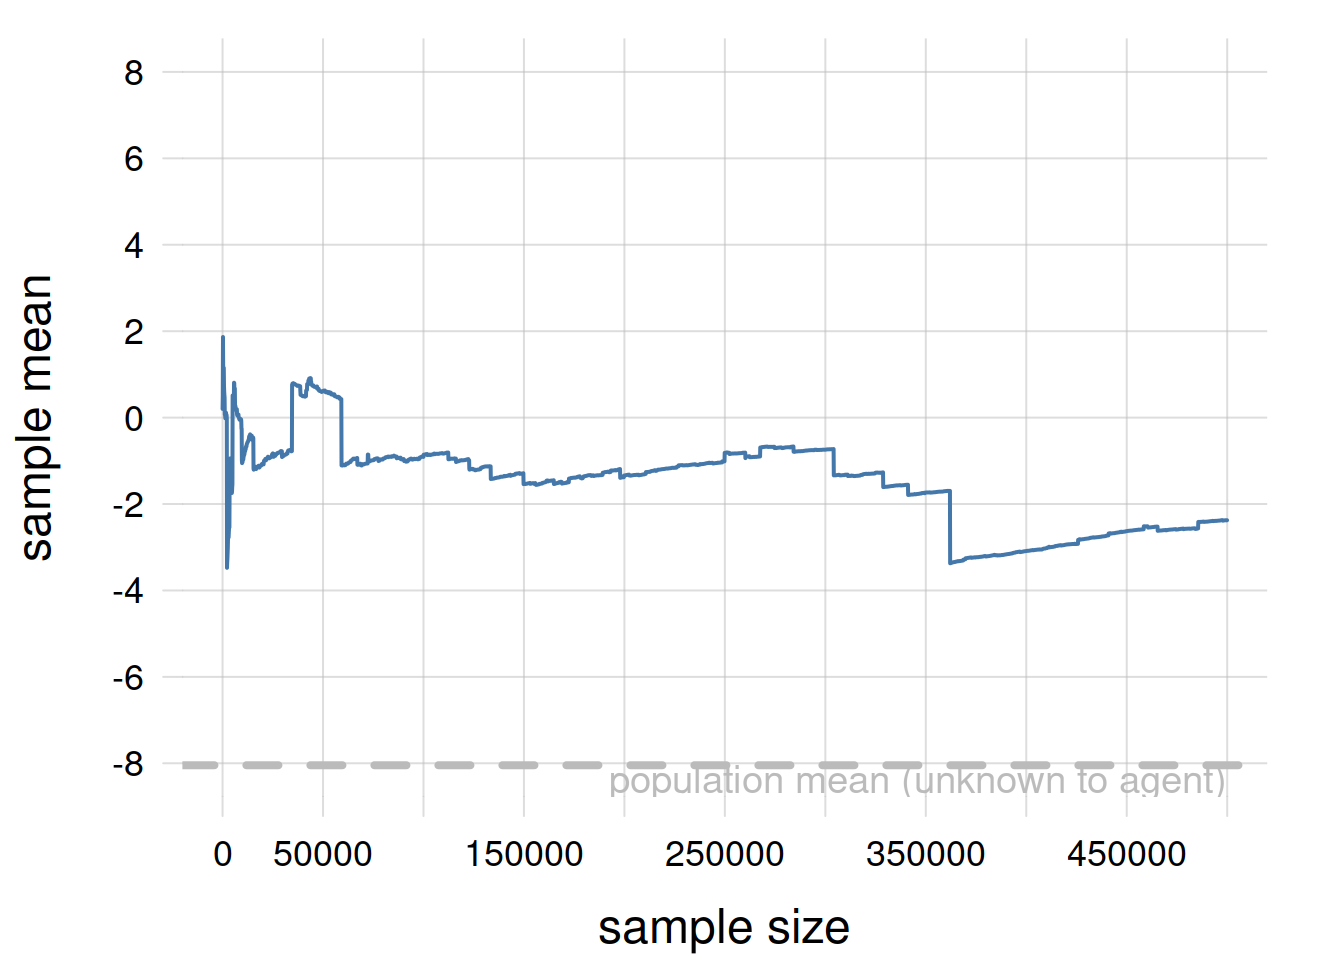
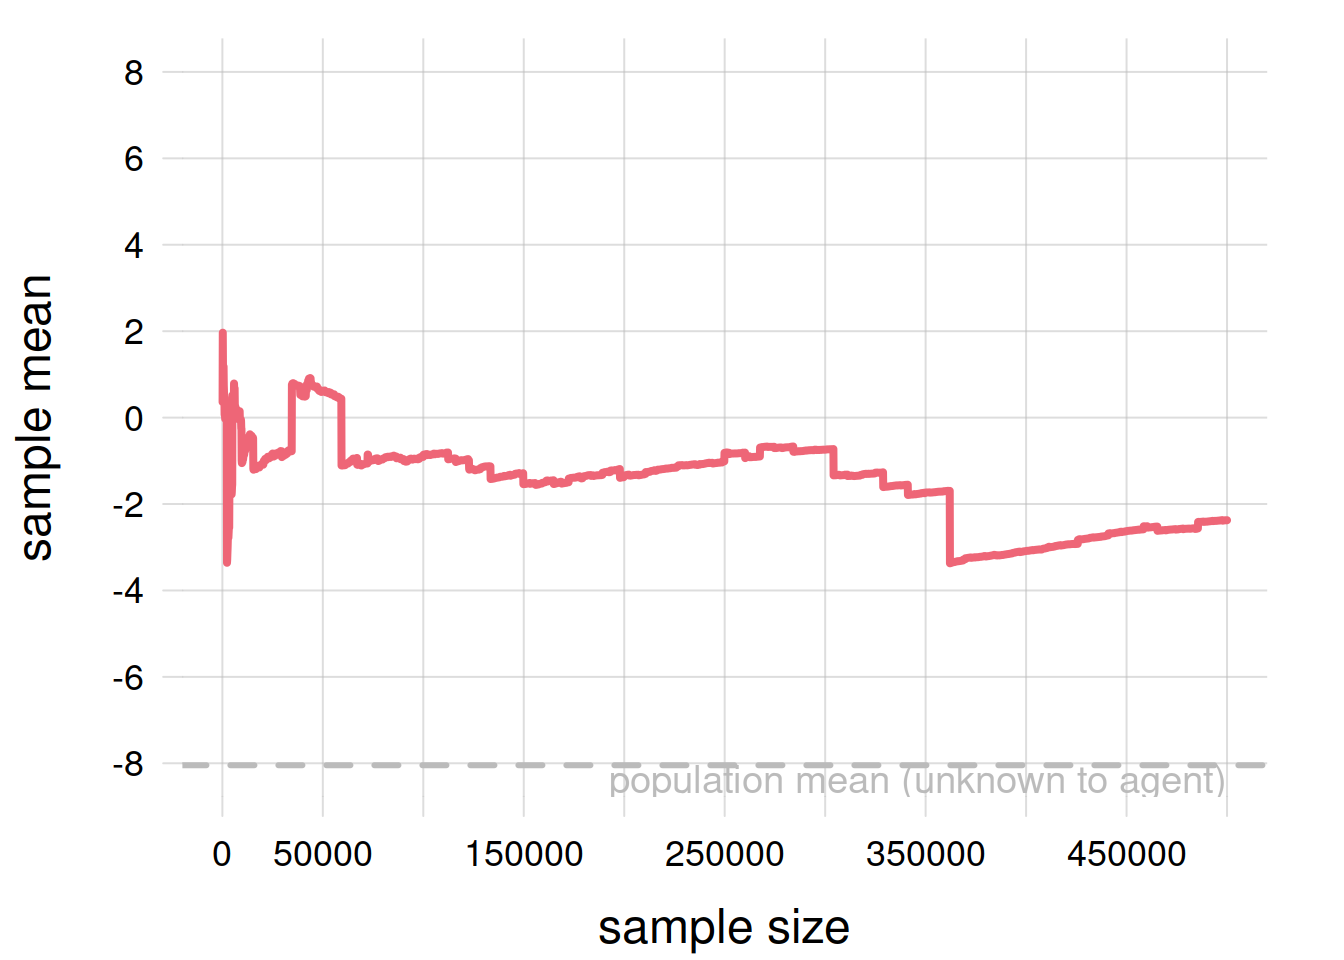
update

diff --git a/docs/samples.html b/docs/samples.html
@@ -901,7 +901,7 @@ pre > code.sourceCode > span > a:first-child::before { text-decoration: underlin
 </section>
 <section id="quirks-of-samples-for-mean-and-standard-deviation" class="level3">
 <h3 class="anchored" data-anchor-id="quirks-of-samples-for-mean-and-standard-deviation">Quirks of samples for mean and standard deviation</h3>
-<p>For some populations, the mean and standard deviation calculated in a sample can be wildly different from those of the full population – even when the sample comprises half of the full population! Here is a demonstration in <code>R</code>. Try it out in your favourite programming language.</p>
+<p>For some populations, the mean and standard deviation calculated in a sample can be wildly different from those of the full population – even when the sample comprises half of the full population! This does not happen with the median and quartiles. Here is a demonstration in <code>R</code>. Try it out in your favourite programming language.</p>
 <div class="callout callout-style-default callout-caution no-icon callout-titled">
 <div class="callout-header d-flex align-content-center">
 <div class="callout-icon-container">
@@ -912,9 +912,9 @@ pre > code.sourceCode > span > a:first-child::before { text-decoration: underlin
 </div>
 </div>
 <div class="callout-body-container callout-body">
-<p>We imagine to have a population of 1 000 000 units. These units have continuous interval variates <span style="display:inline-block;"><span class="math inline">\(X\)</span></span> and <span style="display:inline-block;"><span class="math inline">\(Y\)</span>,</span> each with an approximately standard Gaussian frequency distribution. These variates are not actual part of the population definition, however. Rather, an agent only has access to, or maybe it’s only interested in, the ratio of these two variates <span style="display:inline-block;"><span class="math inline">\(R \coloneqq X/Y\)</span>.</span></p>
-<p>The agent is in particular interested in the <em>mean</em> of the variate <span style="display:inline-block;"><span class="math inline">\(R\)</span></span> in the full population, but has only access to the values of <span style="display:inline-block;"><span class="math inline">\(R\)</span></span> in a sample. How does the mean calculated from a sample of increasing size compare with the actual mean of the full population?</p>
-<p>First let’s create the values of the variates <span style="display:inline-block;"><span class="math inline">\(X\)</span></span> and <span style="display:inline-block;"><span class="math inline">\(Y\)</span>,</span> and construct <span style="display:inline-block;"><span class="math inline">\(R\)</span></span> from them:</p>
+<p>We imagine to have a population of 1 000 000 units. These units have continuous interval variates <span style="display:inline-block;"><span class="math inline">\(X\)</span></span> and <span style="display:inline-block;"><span class="math inline">\(Y\)</span>,</span> each with an approximately standard Gaussian frequency distribution. These variates are not actual part of the population definition, however. Rather, an agent only has access to, or maybe it’s only interested in, the ratio of these two variates <span style="display:inline-block;"><span class="math inline">\(T \coloneqq X/Y\)</span>.</span></p>
+<p>The agent is in particular interested in the <em>mean</em> of the variate <span style="display:inline-block;"><span class="math inline">\(T\)</span></span> in the full population, but has only access to the values of <span style="display:inline-block;"><span class="math inline">\(T\)</span></span> in a sample. How does the mean calculated from a sample of increasing size compare with the actual mean of the full population? For comparison, we also study the <em>median</em> of the full population and of the samples.</p>
+<p>First let’s create the values of the variates <span style="display:inline-block;"><span class="math inline">\(X\)</span></span> and <span style="display:inline-block;"><span class="math inline">\(Y\)</span>,</span> and construct <span style="display:inline-block;"><span class="math inline">\(T\)</span></span> from them:</p>
 <div class="cell">
 <div class="sourceCode cell-code" id="cb1"><pre class="sourceCode r code-with-copy"><code class="sourceCode r"><span id="cb1-1"><a href="#cb1-1" aria-hidden="true" tabindex="-1"></a><span class="do">## Load custom plot functions</span></span>
 <span id="cb1-2"><a href="#cb1-2" aria-hidden="true" tabindex="-1"></a><span class="fu">source</span>(<span class="st">'code/tplotfunctions.R'</span>)</span>
@@ -925,42 +925,66 @@ pre > code.sourceCode > span > a:first-child::before { text-decoration: underlin
 <span id="cb1-7"><a href="#cb1-7" aria-hidden="true" tabindex="-1"></a>X <span class="ot">&lt;-</span> <span class="fu">rnorm</span>(N) <span class="co"># variate invisible to agent</span></span>
 <span id="cb1-8"><a href="#cb1-8" aria-hidden="true" tabindex="-1"></a>Y <span class="ot">&lt;-</span> <span class="fu">rnorm</span>(N) <span class="co"># variate invisible to agent</span></span>
 <span id="cb1-9"><a href="#cb1-9" aria-hidden="true" tabindex="-1"></a></span>
-<span id="cb1-10"><a href="#cb1-10" aria-hidden="true" tabindex="-1"></a>R <span class="ot">&lt;-</span> X<span class="sc">/</span>Y <span class="co"># variate considered by agent</span></span>
+<span id="cb1-10"><a href="#cb1-10" aria-hidden="true" tabindex="-1"></a>T <span class="ot">&lt;-</span> X<span class="sc">/</span>Y <span class="co"># variate considered by agent</span></span>
 <span id="cb1-11"><a href="#cb1-11" aria-hidden="true" tabindex="-1"></a></span>
-<span id="cb1-12"><a href="#cb1-12" aria-hidden="true" tabindex="-1"></a><span class="do">## mean of R in the full population</span></span>
-<span id="cb1-13"><a href="#cb1-13" aria-hidden="true" tabindex="-1"></a>popmean <span class="ot">&lt;-</span> <span class="fu">mean</span>(R)</span>
+<span id="cb1-12"><a href="#cb1-12" aria-hidden="true" tabindex="-1"></a><span class="do">## mean and median of T in the full population</span></span>
+<span id="cb1-13"><a href="#cb1-13" aria-hidden="true" tabindex="-1"></a>popmean <span class="ot">&lt;-</span> <span class="fu">mean</span>(T)</span>
 <span id="cb1-14"><a href="#cb1-14" aria-hidden="true" tabindex="-1"></a><span class="fu">cat</span>(<span class="st">'</span><span class="sc">\n</span><span class="st">The full-population mean is'</span>, popmean, <span class="st">'(unknown to the agent)</span><span class="sc">\n</span><span class="st">'</span>)</span></code><button title="Copy to Clipboard" class="code-copy-button"><i class="bi"></i></button></pre></div>
 <div class="cell-output cell-output-stdout">
 <pre><code>
 The full-population mean is -8.04481 (unknown to the agent)</code></pre>
 </div>
+<div class="sourceCode cell-code" id="cb3"><pre class="sourceCode r code-with-copy"><code class="sourceCode r"><span id="cb3-1"><a href="#cb3-1" aria-hidden="true" tabindex="-1"></a>popmedian <span class="ot">&lt;-</span> <span class="fu">median</span>(T)</span>
+<span id="cb3-2"><a href="#cb3-2" aria-hidden="true" tabindex="-1"></a><span class="fu">cat</span>(<span class="st">'</span><span class="sc">\n</span><span class="st">The full-population median is'</span>, popmedian, <span class="st">'(unknown to the agent)</span><span class="sc">\n</span><span class="st">'</span>)</span></code><button title="Copy to Clipboard" class="code-copy-button"><i class="bi"></i></button></pre></div>
+<div class="cell-output cell-output-stdout">
+<pre><code>
+The full-population median is 0.00188701 (unknown to the agent)</code></pre>
 </div>
-<p>Now we imagine that the agent accumulates samples from the population, starting from 10, increasing by 100 units, until half of the population has been sampled. At each sample increase the agent calculates the sample mean. We plot how the sample mean changes with the sample size. We also plot indicate the full-population mean, which the agent doesn’t know and is trying to guess:</p>
+</div>
+<p>Now we imagine that the agent accumulates samples from the population, starting from 100, increasing by 100 units, until half of the population has been sampled. At each sample increase the agent calculates the sample mean. We plot how the sample mean changes with the sample size. We also plot indicate the full-population mean, which the agent doesn’t know and is trying to guess:</p>
 <div class="cell">
-<div class="sourceCode cell-code" id="cb3"><pre class="sourceCode r code-with-copy"><code class="sourceCode r"><span id="cb3-1"><a href="#cb3-1" aria-hidden="true" tabindex="-1"></a><span class="do">## sizes of successive samples</span></span>
-<span id="cb3-2"><a href="#cb3-2" aria-hidden="true" tabindex="-1"></a>samplesizes <span class="ot">&lt;-</span> <span class="fu">seq</span>(<span class="dv">10</span>, N<span class="sc">/</span><span class="dv">2</span>, <span class="at">by=</span><span class="dv">100</span>)</span>
-<span id="cb3-3"><a href="#cb3-3" aria-hidden="true" tabindex="-1"></a></span>
-<span id="cb3-4"><a href="#cb3-4" aria-hidden="true" tabindex="-1"></a><span class="do">## empty vector to contain the means of the increasing samples</span></span>
-<span id="cb3-5"><a href="#cb3-5" aria-hidden="true" tabindex="-1"></a>samplemeans <span class="ot">&lt;-</span> <span class="fu">numeric</span>(<span class="fu">length</span>(samplesizes))</span>
-<span id="cb3-6"><a href="#cb3-6" aria-hidden="true" tabindex="-1"></a></span>
-<span id="cb3-7"><a href="#cb3-7" aria-hidden="true" tabindex="-1"></a><span class="do">## loop through the increasing samples, calculate mean for each</span></span>
-<span id="cb3-8"><a href="#cb3-8" aria-hidden="true" tabindex="-1"></a><span class="cf">for</span>(sample <span class="cf">in</span> <span class="dv">1</span><span class="sc">:</span><span class="fu">length</span>(samplesizes)){</span>
-<span id="cb3-9"><a href="#cb3-9" aria-hidden="true" tabindex="-1"></a>    samplemeans[sample] <span class="ot">&lt;-</span> <span class="fu">mean</span>(R[<span class="dv">1</span><span class="sc">:</span>samplesizes[sample]])</span>
-<span id="cb3-10"><a href="#cb3-10" aria-hidden="true" tabindex="-1"></a>}</span>
-<span id="cb3-11"><a href="#cb3-11" aria-hidden="true" tabindex="-1"></a></span>
-<span id="cb3-12"><a href="#cb3-12" aria-hidden="true" tabindex="-1"></a><span class="do">## plot how sample means change with sample size, and the actual population mean</span></span>
-<span id="cb3-13"><a href="#cb3-13" aria-hidden="true" tabindex="-1"></a><span class="fu">tplot</span>(<span class="at">x=</span>samplesizes, <span class="at">y=</span>samplemeans,</span>
-<span id="cb3-14"><a href="#cb3-14" aria-hidden="true" tabindex="-1"></a>      <span class="at">xlab=</span><span class="st">'sample size'</span>, <span class="at">ylab=</span><span class="st">'sample mean'</span>,</span>
-<span id="cb3-15"><a href="#cb3-15" aria-hidden="true" tabindex="-1"></a>      <span class="at">ylim=</span><span class="fu">c</span>(<span class="sc">-</span><span class="dv">1</span>,<span class="dv">1</span>)<span class="sc">*</span><span class="fl">1.01</span><span class="sc">*</span><span class="fu">max</span>(<span class="fu">abs</span>(popmean),<span class="fu">abs</span>(samplemeans)))</span>
-<span id="cb3-16"><a href="#cb3-16" aria-hidden="true" tabindex="-1"></a><span class="fu">abline</span>(<span class="at">h=</span>popmean, <span class="at">lty=</span><span class="dv">2</span>, <span class="at">lwd=</span><span class="dv">4</span>, <span class="at">col=</span><span class="dv">7</span>)</span>
-<span id="cb3-17"><a href="#cb3-17" aria-hidden="true" tabindex="-1"></a><span class="fu">text</span>(<span class="at">y=</span>popmean, <span class="at">x=</span><span class="fu">max</span>(samplesizes), <span class="at">labels=</span><span class="st">'population mean (unknown to agent)'</span>, <span class="at">adj=</span><span class="fu">c</span>(<span class="dv">1</span>,<span class="dv">1</span>), <span class="at">col=</span><span class="dv">7</span>, <span class="at">cex=</span><span class="fl">1.2</span>)</span></code><button title="Copy to Clipboard" class="code-copy-button"><i class="bi"></i></button></pre></div>
+<div class="sourceCode cell-code" id="cb5"><pre class="sourceCode r code-with-copy"><code class="sourceCode r"><span id="cb5-1"><a href="#cb5-1" aria-hidden="true" tabindex="-1"></a><span class="do">## sizes of successive samples</span></span>
+<span id="cb5-2"><a href="#cb5-2" aria-hidden="true" tabindex="-1"></a>samplesizes <span class="ot">&lt;-</span> <span class="fu">seq</span>(<span class="dv">100</span>, N<span class="sc">/</span><span class="dv">2</span>, <span class="at">by=</span><span class="dv">100</span>)</span>
+<span id="cb5-3"><a href="#cb5-3" aria-hidden="true" tabindex="-1"></a></span>
+<span id="cb5-4"><a href="#cb5-4" aria-hidden="true" tabindex="-1"></a><span class="do">## empty vectors to contain the means and medians of the increasing samples</span></span>
+<span id="cb5-5"><a href="#cb5-5" aria-hidden="true" tabindex="-1"></a>samplemeans <span class="ot">&lt;-</span> <span class="fu">numeric</span>(<span class="fu">length</span>(samplesizes))</span>
+<span id="cb5-6"><a href="#cb5-6" aria-hidden="true" tabindex="-1"></a>samplemedians <span class="ot">&lt;-</span> <span class="fu">numeric</span>(<span class="fu">length</span>(samplesizes))</span>
+<span id="cb5-7"><a href="#cb5-7" aria-hidden="true" tabindex="-1"></a></span>
+<span id="cb5-8"><a href="#cb5-8" aria-hidden="true" tabindex="-1"></a><span class="do">## loop through the increasing samples, calculate mean for each</span></span>
+<span id="cb5-9"><a href="#cb5-9" aria-hidden="true" tabindex="-1"></a><span class="cf">for</span>(sample <span class="cf">in</span> <span class="dv">1</span><span class="sc">:</span><span class="fu">length</span>(samplesizes)){</span>
+<span id="cb5-10"><a href="#cb5-10" aria-hidden="true" tabindex="-1"></a>    samplemeans[sample] <span class="ot">&lt;-</span> <span class="fu">mean</span>(T[<span class="dv">1</span><span class="sc">:</span>samplesizes[sample]])</span>
+<span id="cb5-11"><a href="#cb5-11" aria-hidden="true" tabindex="-1"></a>    samplemedians[sample] <span class="ot">&lt;-</span> <span class="fu">median</span>(T[<span class="dv">1</span><span class="sc">:</span>samplesizes[sample]])</span>
+<span id="cb5-12"><a href="#cb5-12" aria-hidden="true" tabindex="-1"></a></span>
+<span id="cb5-13"><a href="#cb5-13" aria-hidden="true" tabindex="-1"></a>}</span>
+<span id="cb5-14"><a href="#cb5-14" aria-hidden="true" tabindex="-1"></a></span>
+<span id="cb5-15"><a href="#cb5-15" aria-hidden="true" tabindex="-1"></a><span class="do">## plot how sample means change with sample size, and the actual population mean</span></span>
+<span id="cb5-16"><a href="#cb5-16" aria-hidden="true" tabindex="-1"></a>commonmax <span class="ot">&lt;-</span> <span class="fl">1.01</span><span class="sc">*</span><span class="fu">max</span>(<span class="fu">abs</span>(<span class="fu">c</span>(popmean,popmedian,samplemeans,samplemedians)))</span>
+<span id="cb5-17"><a href="#cb5-17" aria-hidden="true" tabindex="-1"></a><span class="fu">tplot</span>(<span class="at">x=</span>samplesizes, <span class="at">y=</span>samplemeans,</span>
+<span id="cb5-18"><a href="#cb5-18" aria-hidden="true" tabindex="-1"></a>      <span class="at">xlab=</span><span class="st">'sample size'</span>, <span class="at">ylab=</span><span class="st">'sample mean'</span>,</span>
+<span id="cb5-19"><a href="#cb5-19" aria-hidden="true" tabindex="-1"></a>      <span class="at">col=</span><span class="dv">2</span>, <span class="at">lwd=</span><span class="dv">4</span>,</span>
+<span id="cb5-20"><a href="#cb5-20" aria-hidden="true" tabindex="-1"></a>      <span class="at">ylim=</span><span class="fu">c</span>(<span class="sc">-</span>commonmax,commonmax))</span>
+<span id="cb5-21"><a href="#cb5-21" aria-hidden="true" tabindex="-1"></a><span class="fu">abline</span>(<span class="at">h=</span>popmean, <span class="at">lty=</span><span class="dv">2</span>, <span class="at">lwd=</span><span class="dv">3</span>, <span class="at">col=</span><span class="dv">7</span>)</span>
+<span id="cb5-22"><a href="#cb5-22" aria-hidden="true" tabindex="-1"></a><span class="fu">text</span>(<span class="at">y=</span>popmean, <span class="at">x=</span><span class="fu">max</span>(samplesizes), <span class="at">labels=</span><span class="st">'population mean (unknown to agent)'</span>, <span class="at">adj=</span><span class="fu">c</span>(<span class="dv">1</span>,<span class="dv">1</span>), <span class="at">col=</span><span class="dv">7</span>, <span class="at">cex=</span><span class="fl">1.2</span>)</span></code><button title="Copy to Clipboard" class="code-copy-button"><i class="bi"></i></button></pre></div>
 <div class="cell-output-display">
 <p><img src="samples_files/figure-html/unnamed-chunk-2-1.png" class="img-fluid" width="672"></p>
 </div>
+<div class="sourceCode cell-code" id="cb6"><pre class="sourceCode r code-with-copy"><code class="sourceCode r"><span id="cb6-1"><a href="#cb6-1" aria-hidden="true" tabindex="-1"></a><span class="do">## plot how sample medians change with sample size, and the actual population median</span></span>
+<span id="cb6-2"><a href="#cb6-2" aria-hidden="true" tabindex="-1"></a><span class="fu">tplot</span>(<span class="at">x=</span>samplesizes, <span class="at">y=</span>samplemedians,</span>
+<span id="cb6-3"><a href="#cb6-3" aria-hidden="true" tabindex="-1"></a>      <span class="at">xlab=</span><span class="st">'sample size'</span>, <span class="at">ylab=</span><span class="st">'sample median'</span>,</span>
+<span id="cb6-4"><a href="#cb6-4" aria-hidden="true" tabindex="-1"></a>      <span class="at">col=</span><span class="dv">3</span>, <span class="at">lwd=</span><span class="dv">4</span>,</span>
+<span id="cb6-5"><a href="#cb6-5" aria-hidden="true" tabindex="-1"></a>      <span class="at">ylim=</span><span class="fu">c</span>(<span class="sc">-</span>commonmax,commonmax))</span>
+<span id="cb6-6"><a href="#cb6-6" aria-hidden="true" tabindex="-1"></a><span class="fu">abline</span>(<span class="at">h=</span>popmedian, <span class="at">lty=</span><span class="dv">2</span>, <span class="at">lwd=</span><span class="dv">3</span>, <span class="at">col=</span><span class="dv">7</span>)</span>
+<span id="cb6-7"><a href="#cb6-7" aria-hidden="true" tabindex="-1"></a><span class="fu">text</span>(<span class="at">y=</span>popmedian, <span class="at">x=</span><span class="fu">max</span>(samplesizes), <span class="at">labels=</span><span class="st">'population median (unknown to agent)'</span>, <span class="at">adj=</span><span class="fu">c</span>(<span class="dv">1</span>,<span class="dv">1</span>), <span class="at">col=</span><span class="dv">7</span>, <span class="at">cex=</span><span class="fl">1.2</span>)</span></code><button title="Copy to Clipboard" class="code-copy-button"><i class="bi"></i></button></pre></div>
+<div class="cell-output-display">
+<p><img src="samples_files/figure-html/unnamed-chunk-2-2.png" class="img-fluid" width="672"></p>
 </div>
+</div>
+<p>Test this again with several pseudorandom seeds.</p>
 <p><br>
 </p>
-<p>Now try a similar exercise but for the standard deviation of <span style="display:inline-block;"><span class="math inline">\(R\)</span></span></p>
+<ul>
+<li>Now try a similar exercise but for the standard deviation of <span class="math inline">\(T\)</span></li>
+</ul>
 </div>
 </div>
 
